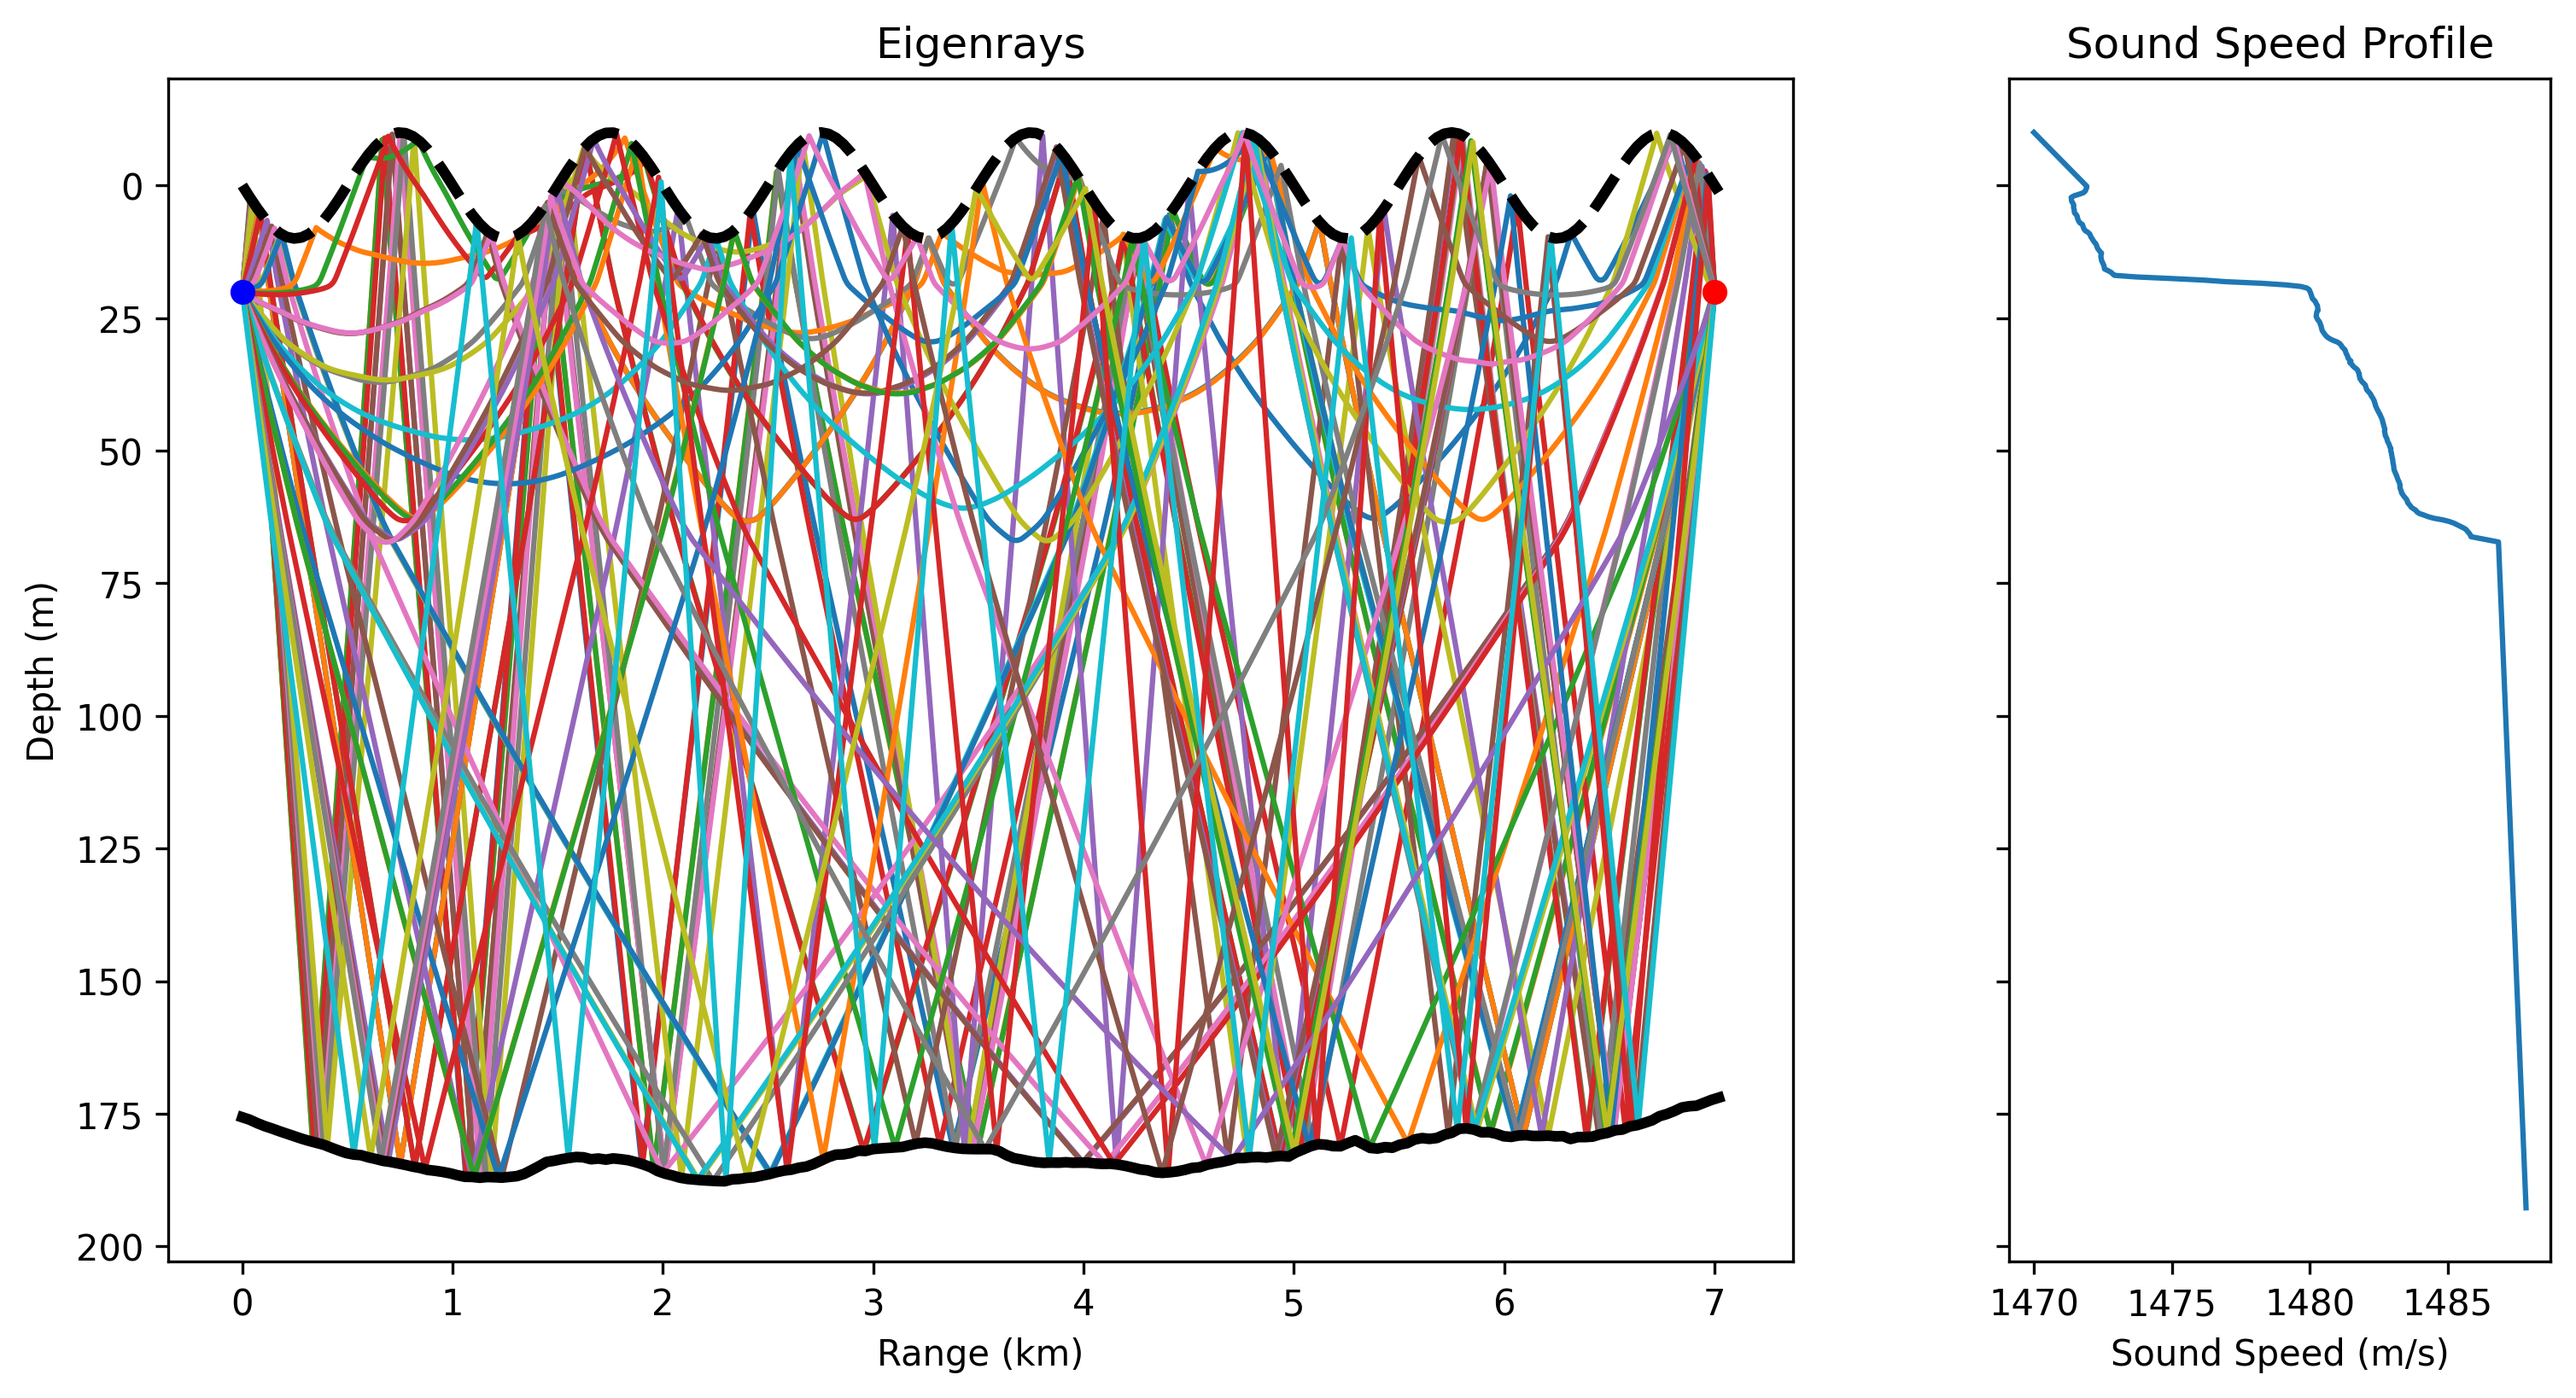
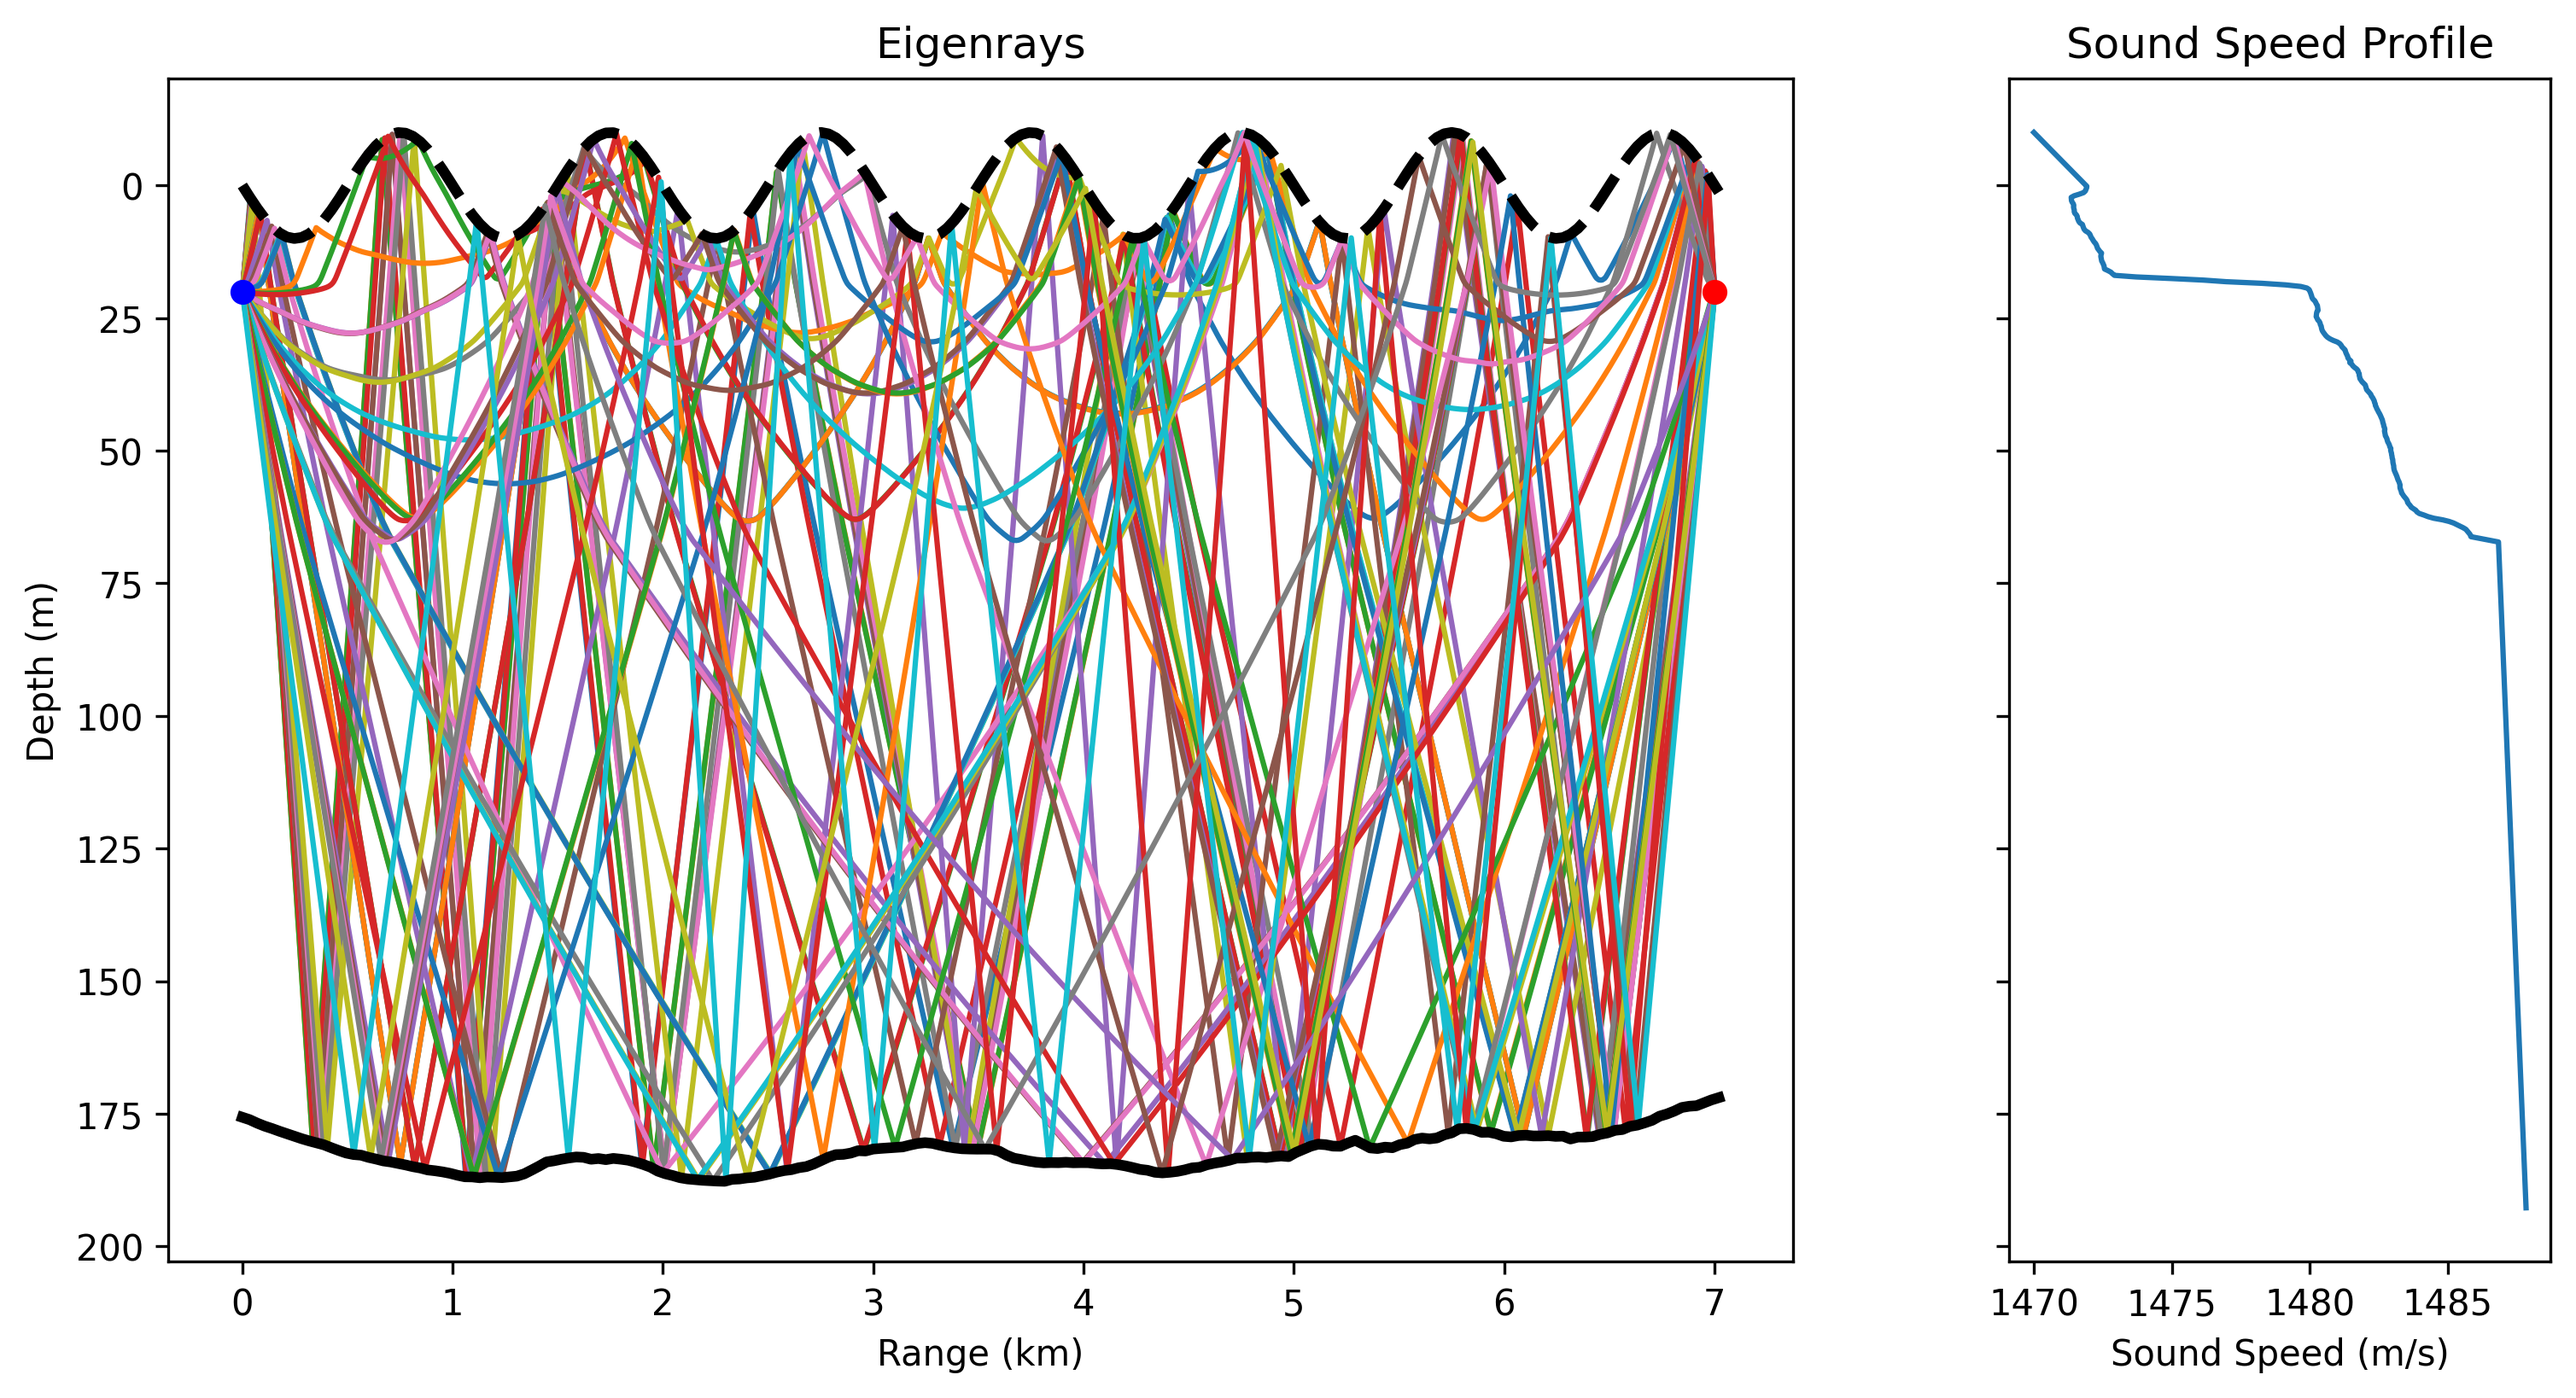
Updates for run type

diff --git a/Justin_Work/App/main.py b/Justin_Work/App/main.py
@@ -403,14 +403,25 @@ class TLViewerApp(QWidget):
         default_layout.addWidget(self.default_dropdown, 0, 1)
         default_layout.addWidget(default_button, 0, 2)
         default_layout.setColumnStretch(1, 1)
-        self.layout.addLayout(default_layout, len(self.fields), 2, 1, 2)
+        self.layout.addLayout(default_layout, len(self.fields), 1, 1, 2)
         default_button.clicked.connect(self.set_default_options)
 
         # Run Button
+        run_label = QLabel("Run Type:")
+        run_layout = QGridLayout()
+        self.run_type_dropdown = QComboBox()
+        self.run_type_dropdown.addItems([
+            "Plot Bathymetry",
+            "Run Bellhop"
+        ])
         run_button = QPushButton("Run")
-        run_button.clicked.connect(self.run)
-        self.layout.addWidget(run_button, len(self.fields), 4, 1, 2)
-        self.setLayout(self.layout)
+        run_layout.addwidget(run_label, 0, 0)
+        run_layout.addwidget(self.run_type_dropdown, 0, 1)
+        run_layout.addwidget(self.run_button, 0, 2)
+        run_layout.addwidget(self.run_button, 0, 2)
+        run_layout.setColumnStretch(1, 1)
+        self.layout.addLayout(run_layout, len(self.fields), 3, 1, 2)
+        run_button.clicked.connect(self.select_run_type)
 
 
     def browse_bellhop_executable(self):
@@ -607,11 +618,17 @@ class TLViewerApp(QWidget):
                     QMessageBox.critical(self, "Error", f"Failed to plot bathymetry: {e}")
     
 
-    def plot_bathymetry(self, file_path):
+    def select_run_type(self):
+        run_option = self.run_type_dropdown.currentText()
+        if run_option == "Plot Bathymetry":
+            self.plot_bathy()
+        elif run_option == "Run Bellhop":
+            self.run_bellhop()
+
+    def plot_bathy(self):
         return
 
-
-    def run(self):
+    def run_bellhop(self):
         try:
             # Read and convert input values
             values = {}
@@ -630,10 +647,10 @@ class TLViewerApp(QWidget):
             filename = self.fields["Filename"].text()
             data_dir = self.fields["Data File Directory"].text()
             save_dir = self.fields["Save File Directory"].text()   
-            lon_start = values["Source Longitude"]
-            lat_start = values["Source Latitude"]
-            lon_end   = values["Receiver Longitude"]
-            lat_end   = values["Receiver Latitude"]
+            lon_start = np.float64(values["Source Longitude"])
+            lat_start = np.float64(values["Source Latitude"])
+            lon_end   = np.float64(values["Receiver Longitude"])
+            lat_end   = np.float64(values["Receiver Latitude"])
             freq      = values["Frequency"]
             sspopt1 = self.fields["SSPOPT(1)"].currentText().split(":")[0].strip()
             sspopt2 = self.fields["SSPOPT(2)"].currentText().split(":")[0].strip()
@@ -674,14 +691,19 @@ class TLViewerApp(QWidget):
             bath_map = np.array(bty_data["bath_map"], dtype=np.float64)
             lon_range = np.squeeze(np.array(bty_data["lon_range"], dtype=np.float64), axis=0)
             lat_range = np.squeeze(np.array(bty_data["lat_range"], dtype=np.float64), axis=0)
-            bath_depths, bath_ranges = map_1D(bath_map=bath_map, 
-                                            lon_range=lon_range, 
-                                            lat_range=lat_range, 
-                                            lon_start=np.float64(lon_start), 
-                                            lon_end=np.float64(lon_end), 
-                                            lat_start=np.float64(lat_start), 
-                                            lat_end=np.float64(lat_end),
-                                            num_points=200)
+
+            if  lon_start >= min(lon_range) and lon_start <= max(lon_range) and lat_start >= min(lat_range) and lat_start <= max(lat_range) and lon_end >= min(lon_range) and lon_end <= max(lon_range) and lat_end >= min(lat_range) and lat_end <= max(lat_range):
+                bath_depths, bath_ranges = map_1D(bath_map=bath_map, 
+                                                lon_range=lon_range, 
+                                                lat_range=lat_range, 
+                                                lon_start=lon_start, 
+                                                lon_end=lon_end, 
+                                                lat_start=lat_start, 
+                                                lat_end=lat_end,
+                                                num_points=200)
+            else:
+                QMessageBox.critical(self, "Error", "Source and receiver coordinates are outside the bathymetry range. Please check your inputs.")
+                return
 
             # ATI
             ati_data = io.loadmat(ati_file)
